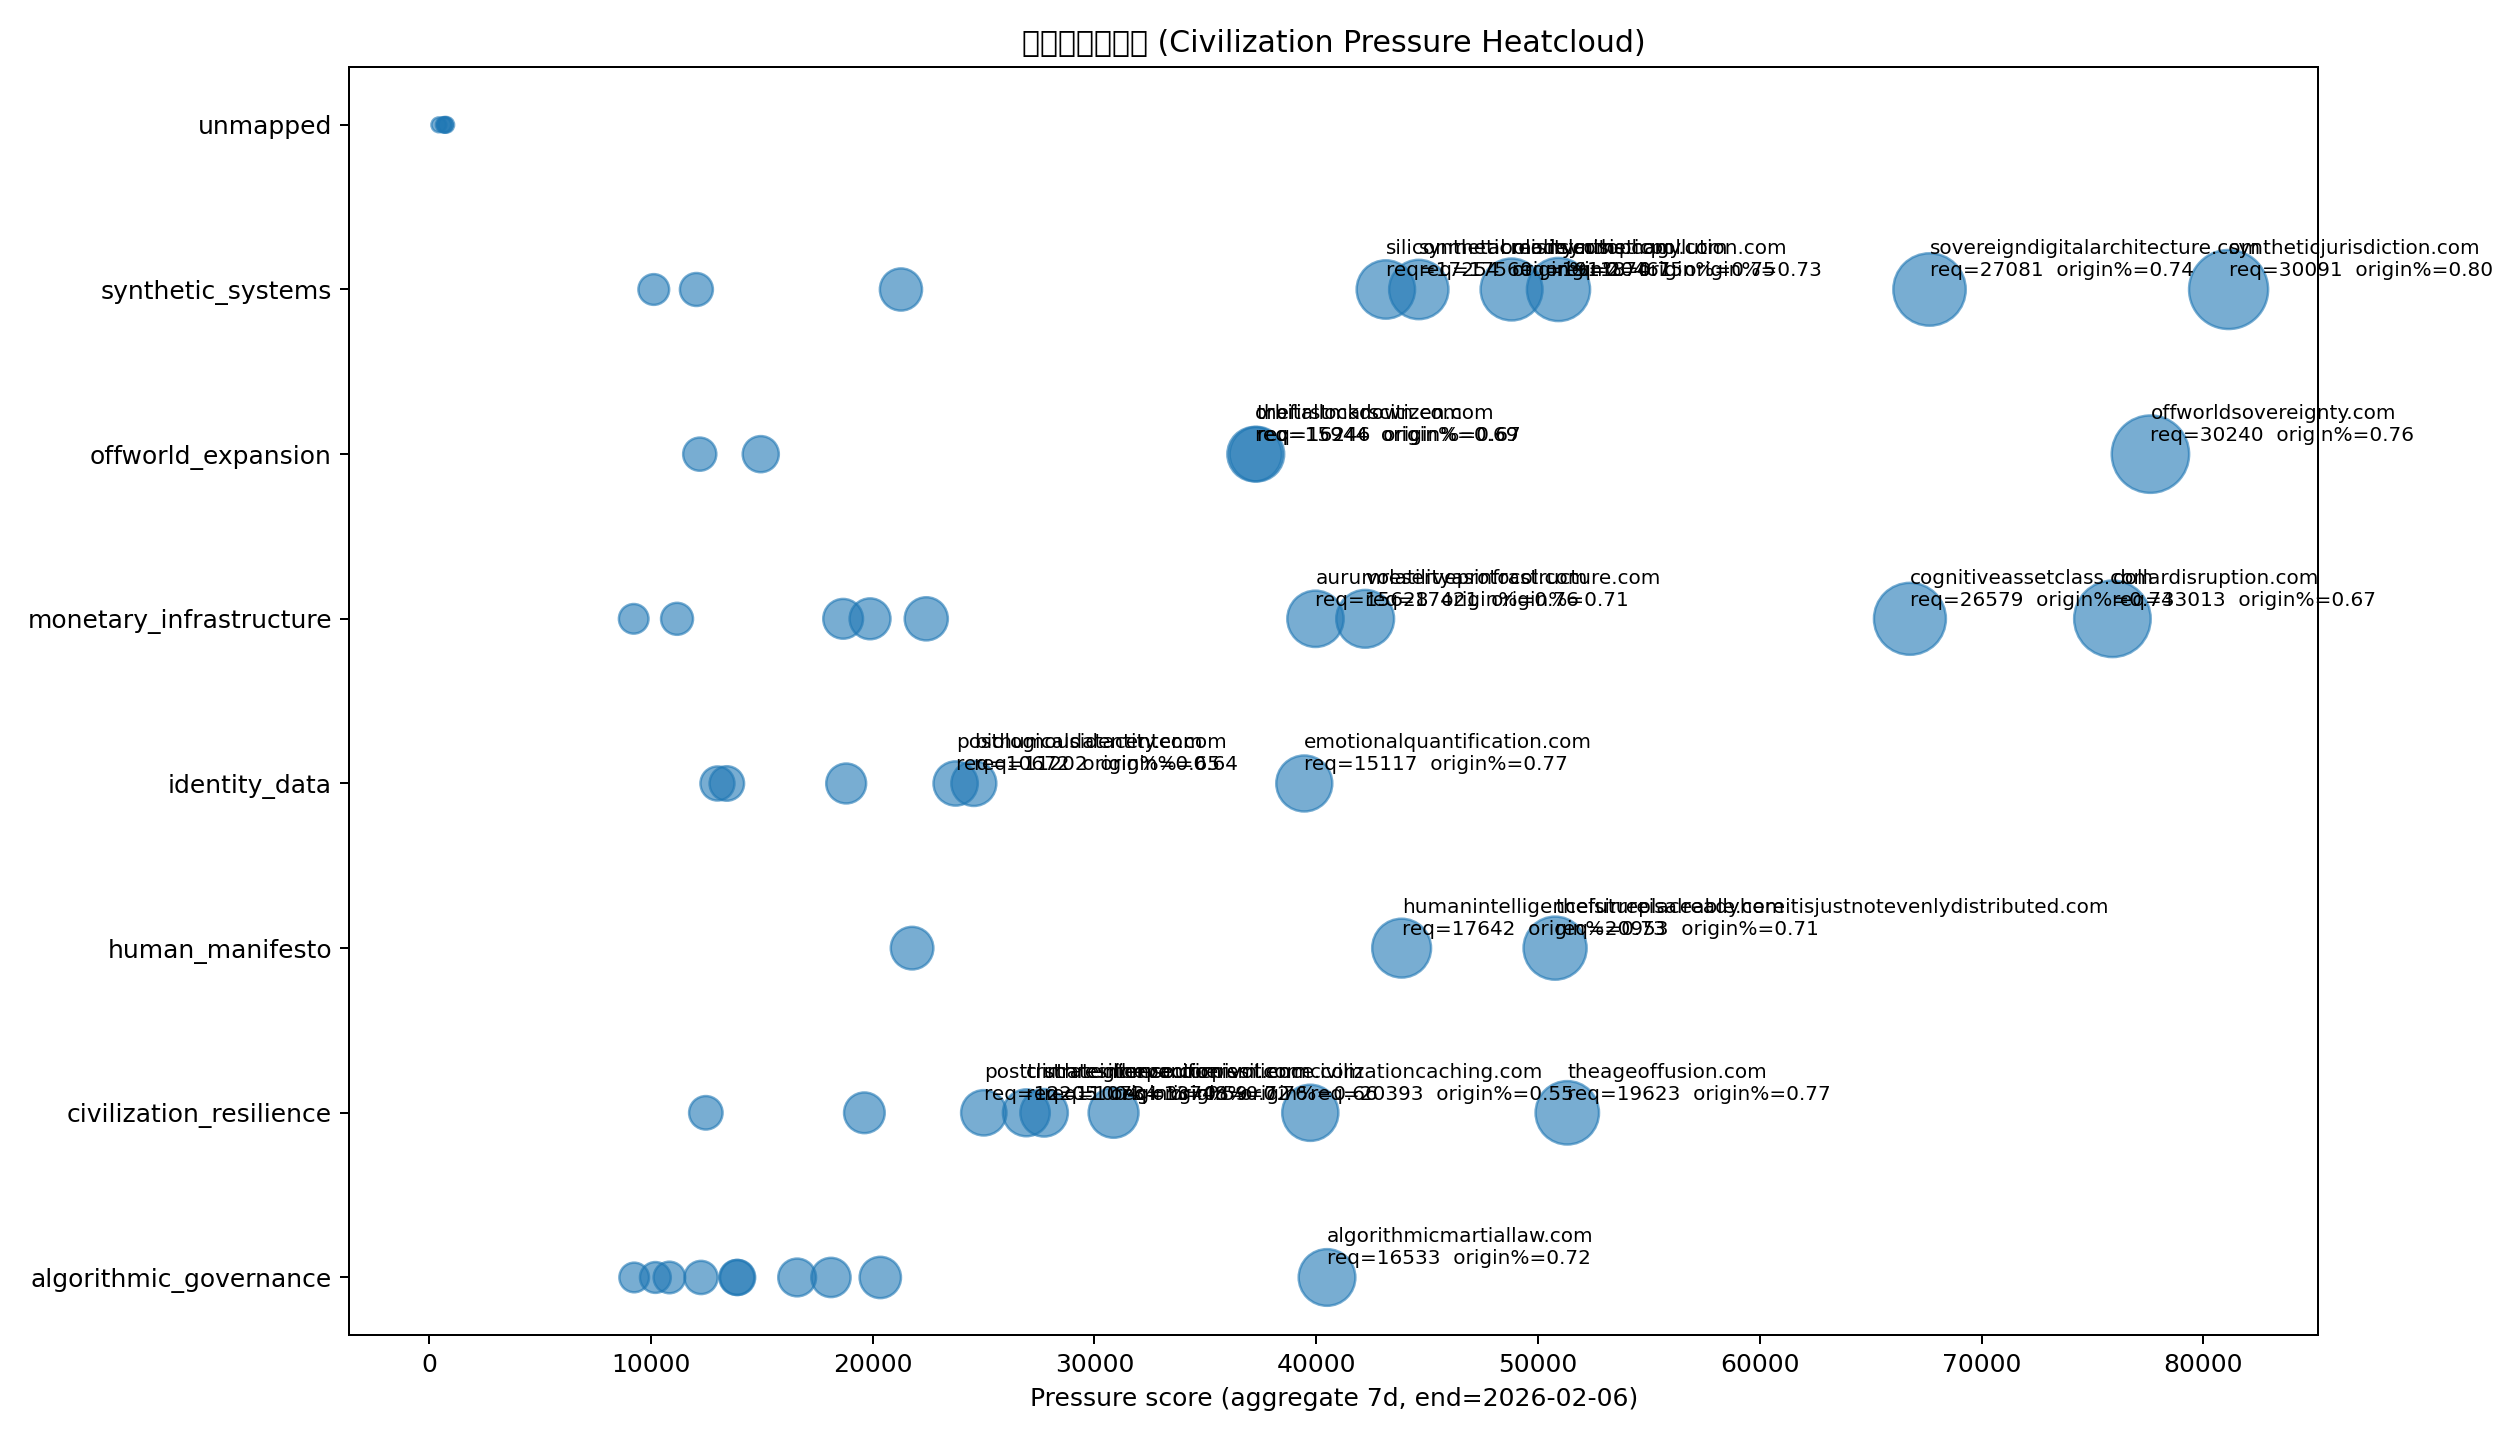
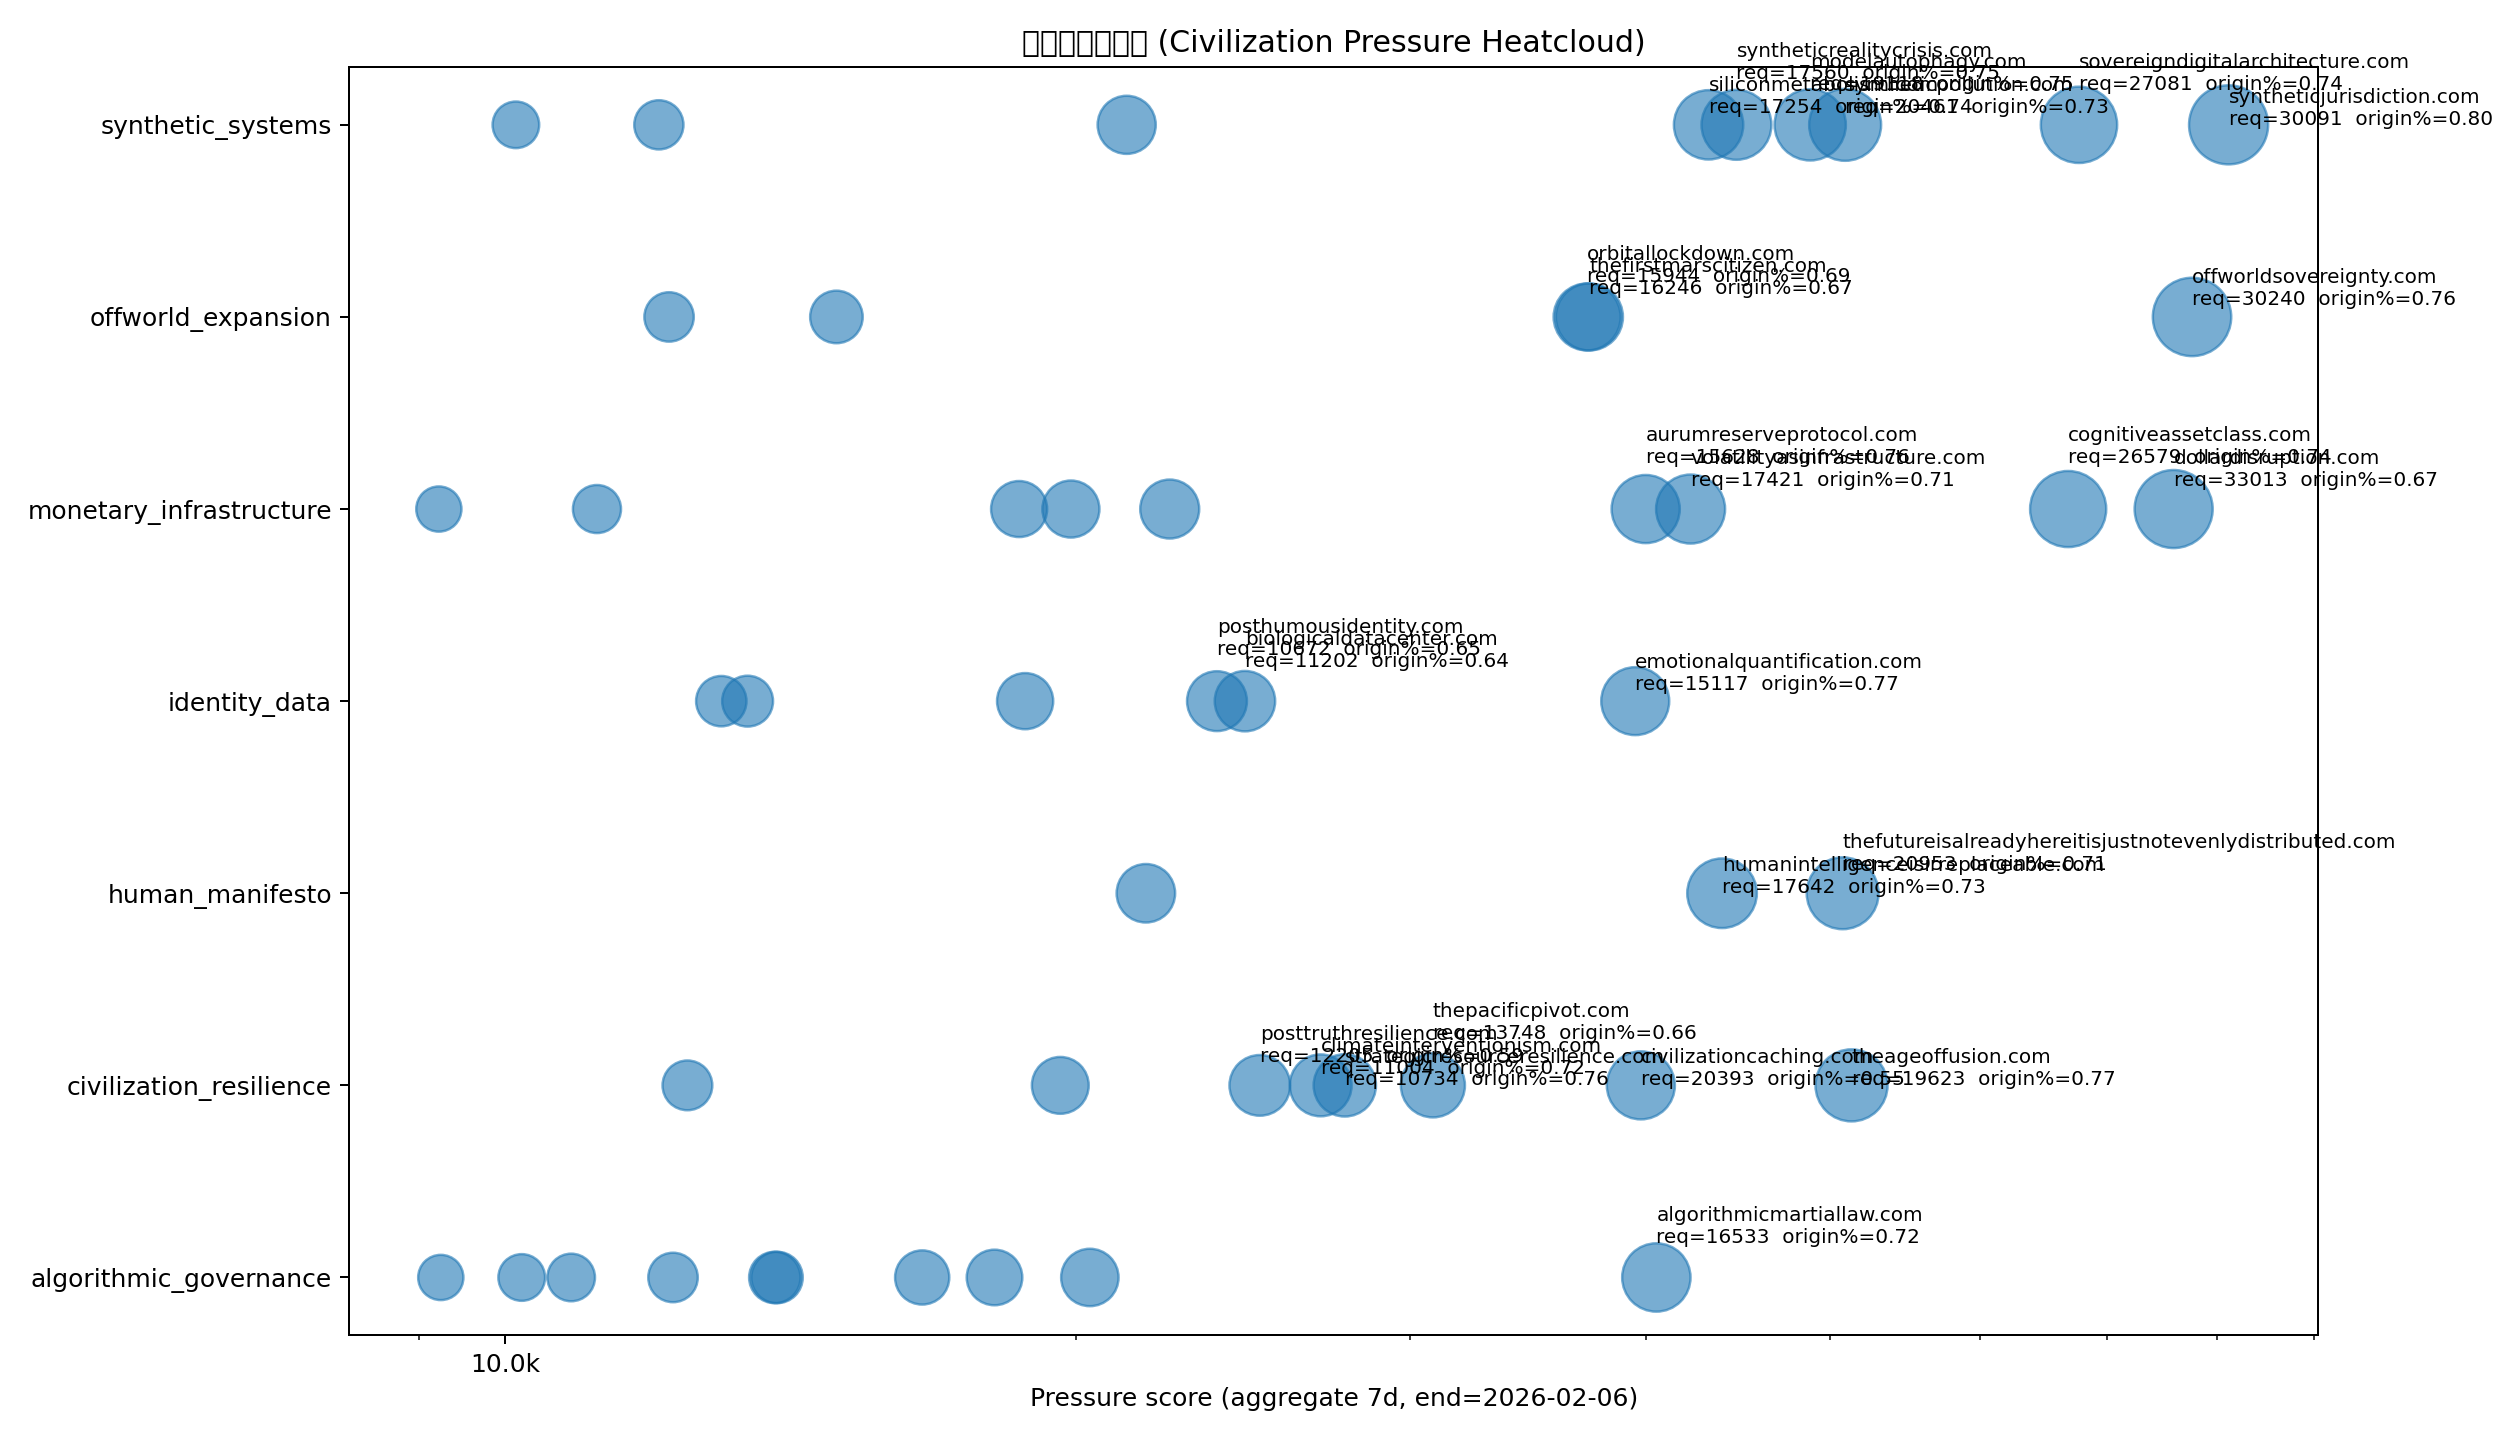
feat: 增強數據處理邏輯，新增未映射網域輸出，並改善壓力熱區雲的可視化

diff --git a/make_heatcloud.py b/make_heatcloud.py
@@ -2,14 +2,18 @@
 # Read output/daily_snapshots.jsonl, aggregate by series_map.json, and render:
 # 1) pressure_heatcloud.png (文明壓力熱區雲)
 # 2) pulse_compare.png (全域 vs Top series 脈衝對比)
+# Also:
+# 3) unmapped_domains.txt (未映射網域清單，結構洞)
 
 import os
 import json
 import argparse
+import math
 from collections import defaultdict
 from datetime import datetime, timedelta
 
 import matplotlib.pyplot as plt
+from matplotlib.ticker import FuncFormatter
 
 
 def load_jsonl(path: str) -> list[dict]:
@@ -50,6 +54,36 @@ def clamp(v, lo, hi):
     return max(lo, min(hi, v))
 
 
+def size_scale(score, max_score, mode="sqrt"):
+    """
+    Bubble size scaling for better "pressure terrain" readability.
+    - sqrt: good default
+    - log : stronger separation near small signals
+    """
+    if max_score <= 0:
+        return 30
+    x = score / max_score
+    x = clamp(x, 0.0, 1.0)
+
+    if mode == "log":
+        # log1p gives better separation near 0
+        return 30 + 970 * (math.log1p(9 * x) / math.log1p(9))
+
+    # default sqrt
+    return 30 + 970 * math.sqrt(x)
+
+
+def fmt_k(x, _):
+    """Format large numbers as 1.2k / 3.4M for axis."""
+    x = float(x)
+    ax = abs(x)
+    if ax >= 1_000_000:
+        return f"{x/1_000_000:.1f}M"
+    if ax >= 1_000:
+        return f"{x/1_000:.1f}k"
+    return f"{int(x)}"
+
+
 def main():
     ap = argparse.ArgumentParser()
     ap.add_argument("--in", dest="inp", default="output/daily_snapshots.jsonl", help="input jsonl")
@@ -57,6 +91,7 @@ def main():
     ap.add_argument("--outdir", default="output", help="output directory")
     ap.add_argument("--days", type=int, default=7, help="how many days to aggregate for heatcloud")
     ap.add_argument("--top", type=int, default=25, help="how many top domains to label")
+    ap.add_argument("--size-mode", choices=["sqrt", "log"], default="sqrt", help="bubble size scaling")
     args = ap.parse_args()
 
     os.makedirs(args.outdir, exist_ok=True)
@@ -93,7 +128,7 @@ def main():
     # pressure score:
     # - base = dns_total
     # - weight more if origin_served high (less cache / more "real hits" or more pressure on origin)
-    # score = dns_total * (1 + origin_ratio)
+    # score = dns_total * (1 + origin_ratio) * (0.7 + (1 - cache_ratio))
     scored = []
     for dom, s in dom_stat.items():
         dns_total = s["dns_total"]
@@ -102,47 +137,77 @@ def main():
         denom = max(1, dns_total)
         origin_ratio = origin / denom
         cache_ratio = cf / denom
+
         score = dns_total * (1.0 + origin_ratio) * (0.7 + (1 - cache_ratio))  # mild boost to non-cache
         series = smap.get(dom, "unmapped")
         scored.append((score, dom, series, dns_total, origin_ratio, cache_ratio))
 
     scored.sort(reverse=True, key=lambda x: x[0])
 
+    # ---- unmapped output (structure hole list) & exclude from heatcloud
+    unmapped = [t for t in scored if t[2] == "unmapped"]
+    if unmapped:
+        out_unmapped = os.path.join(args.outdir, "unmapped_domains.txt")
+        with open(out_unmapped, "w", encoding="utf-8") as f:
+            f.write(f"# unmapped domains (end={end.isoformat()}, window={args.days}d)\n")
+            for (score, dom, series, dns_total, origin_ratio, cache_ratio) in unmapped:
+                f.write(
+                    f"{dom}\tscore={score:.2f}\treq={dns_total}"
+                    f"\torigin%={origin_ratio:.2f}\tcache%={cache_ratio:.2f}\n"
+                )
+        print(f"✅ Wrote: {out_unmapped} (count={len(unmapped)})")
+
+    scored_plot = [t for t in scored if t[2] != "unmapped"]
+
     # ---- Figure 1: 文明壓力熱區雲 (scatter cloud)
-    # y-axis = series buckets
-    series_list = sorted({s for _, _, s, *_ in scored})
+    if not scored_plot:
+        raise SystemExit("No mapped domains to plot (all unmapped).")
+
+    series_list = sorted({s for _, _, s, *_ in scored_plot})
     y_index = {s: i for i, s in enumerate(series_list)}
 
-    xs = []
-    ys = []
-    sizes = []
-    labels = []
+    xs, ys, sizes = [], [], []
 
-    # normalize bubble sizes
-    if scored:
-        max_score = max(s[0] for s in scored) or 1.0
-    else:
-        max_score = 1.0
+    max_score = max(s[0] for s in scored_plot) or 1.0
 
-    for i, (score, dom, series, dns_total, origin_ratio, cache_ratio) in enumerate(scored):
+    for (score, dom, series, dns_total, origin_ratio, cache_ratio) in scored_plot:
         xs.append(score)
         ys.append(y_index[series])
-        # bubble size: scale with score
-        sz = 30 + 970 * (score / max_score)
-        sizes.append(sz)
-        labels.append(dom)
+        sizes.append(size_scale(score, max_score, mode=args.size_mode))
 
     plt.figure(figsize=(14, 8))
     plt.scatter(xs, ys, s=sizes, alpha=0.6)
+
     plt.yticks(range(len(series_list)), series_list)
     plt.xlabel(f"Pressure score (aggregate {args.days}d, end={end.isoformat()})")
     plt.title("文明壓力熱區雲 (Civilization Pressure Heatcloud)")
 
-    # annotate top N
-    for (score, dom, series, dns_total, origin_ratio, cache_ratio) in scored[: args.top]:
+    # Log scale for x-axis (visual improvement only)
+    plt.xscale("log")
+    plt.gca().xaxis.set_major_formatter(FuncFormatter(fmt_k))
+
+    # annotate:
+    # 1) global top N
+    top_global = scored_plot[: args.top]
+
+    # 2) ensure at least 1 label per series (best in series)
+    best_per_series = {}
+    for t in scored_plot:
+        s = t[2]
+        if s not in best_per_series:
+            best_per_series[s] = t
+
+    # merge picks (avoid duplicates)
+    pick = {t[1]: t for t in top_global}  # keyed by dom
+    for t in best_per_series.values():
+        pick.setdefault(t[1], t)
+
+    # small deterministic jitter to reduce overlap
+    for j, (score, dom, series, dns_total, origin_ratio, cache_ratio) in enumerate(pick.values()):
         y = y_index[series]
+        dy = ((j % 5) - 2) * 0.06  # -0.12 ~ +0.12
         txt = f"{dom}\nreq={dns_total}  origin%={origin_ratio:.2f}"
-        plt.text(score, y + 0.08, txt, fontsize=8)
+        plt.text(score, y + 0.12 + dy, txt, fontsize=8)
 
     out1 = os.path.join(args.outdir, "pressure_heatcloud.png")
     plt.tight_layout()
@@ -150,7 +215,6 @@ def main():
     plt.close()
 
     # ---- Figure 2: pulse compare (global vs top series)
-    # build daily totals for last max(args.days, 14) days to see rhythm
     pulse_days = max(args.days, 14)
     p_start = end - timedelta(days=pulse_days - 1)
 
@@ -203,6 +267,7 @@ def main():
     print(f" - {out2}")
     print(f"✅ Window for heatcloud: {start.isoformat()} ~ {end.isoformat()} ({args.days} days)")
     print(f"✅ Top series in pulse: {top_series}")
+    print("✅ Done.")
 
 
 if __name__ == "__main__":

diff --git a/generate_series_map.py b/generate_series_map.py
@@ -1,4 +1,5 @@
-import json, os
+import json
+import os
 
 INP = "config/domains_50.fixed.json" if os.path.exists("config/domains_50.fixed.json") else "config/domains_50.json"
 OUT = "config/series_map.json"
@@ -8,16 +9,40 @@ with open(INP, "r", encoding="utf-8") as f:
 
 # 支援兩種格式：list 或 {"domains":[...]}
 items = data["domains"] if isinstance(data, dict) and "domains" in data else data
+if not isinstance(items, list):
+    raise SystemExit(f"Invalid domains file format: {INP}")
 
 smap = {"default": "civilization"}
 
+count = 0
+skipped = 0
+
 for it in items:
-    d = it.get("domain") or it.get("name")
-    s = it.get("series") or it.get("group")
-    if d and s:
-        smap[d.lower()] = s
+    try:
+        if isinstance(it, str):
+            # 如果是純字串 domain，無法映射 series，跳過
+            skipped += 1
+            continue
+
+        if not isinstance(it, dict):
+            skipped += 1
+            continue
+
+        d = it.get("domain") or it.get("name")
+        s = it.get("series") or it.get("group")
+
+        if d and s:
+            smap[str(d).lower()] = str(s)
+            count += 1
+        else:
+            skipped += 1
+    except Exception:
+        skipped += 1
+        continue
 
 with open(OUT, "w", encoding="utf-8") as f:
     json.dump(smap, f, ensure_ascii=False, indent=2)
 
-print(f"✅ wrote {OUT} from {INP}  (domains mapped: {len(smap)-1})")
+print(f"✅ wrote {OUT} from {INP}")
+print(f"✅ domains mapped: {count}")
+print(f"⚠ skipped items: {skipped}")
